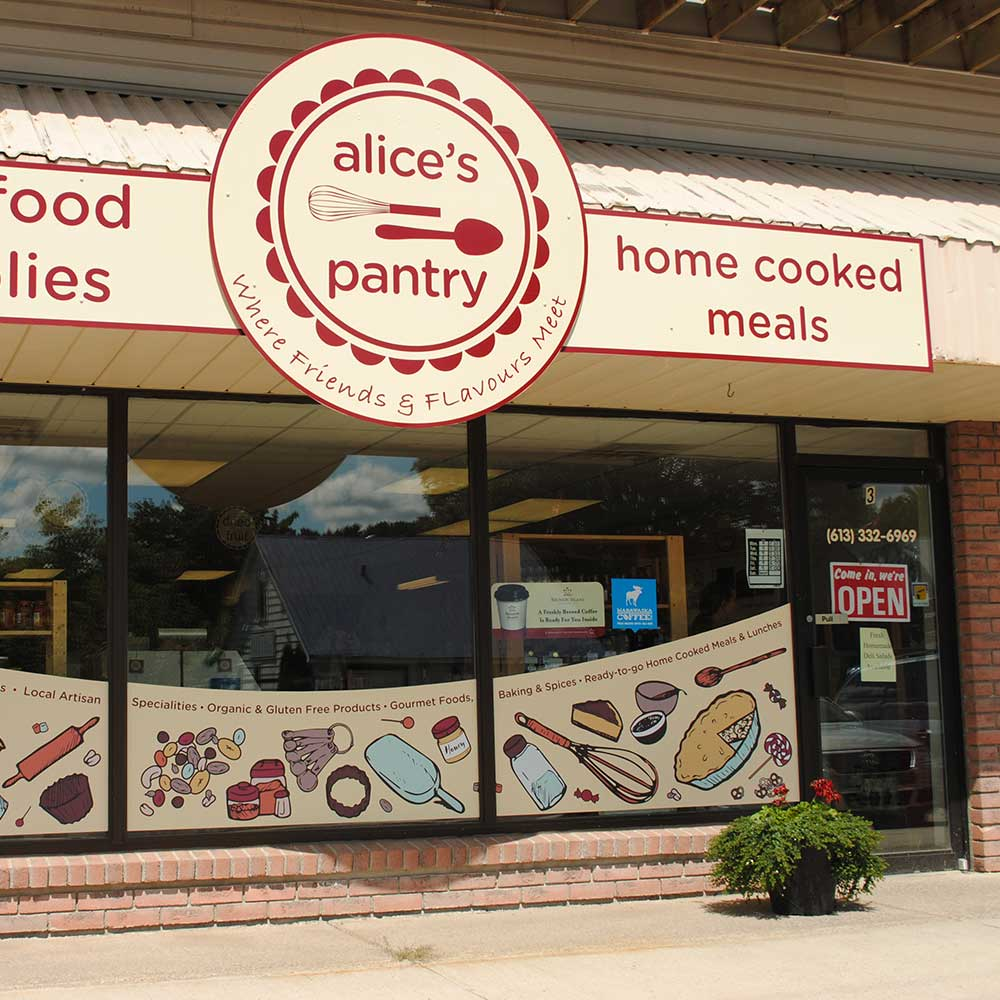
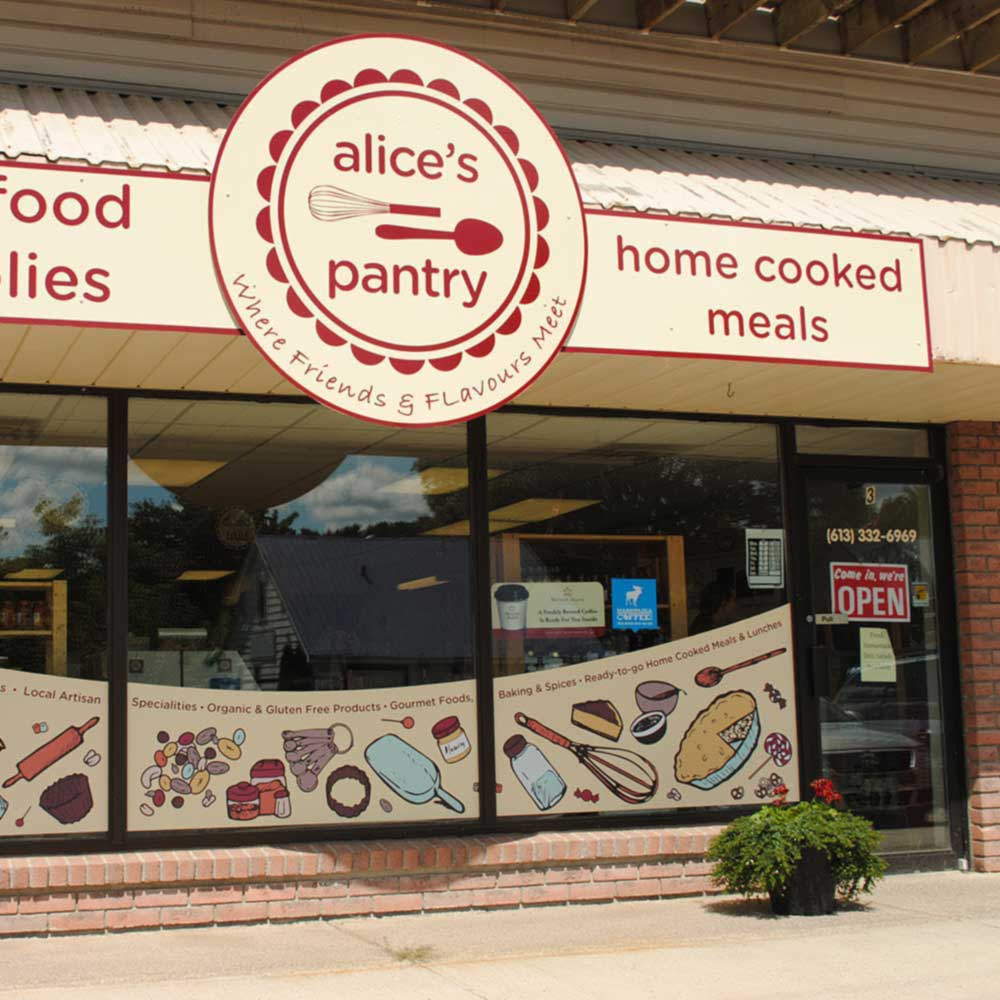
Minimized file size for some images, added alt tags to all images

diff --git a/project-four.html b/project-four.html
@@ -5,8 +5,7 @@ layout: default-two
 <div class="grid">
     <div class="info unit unit-xs-1 unit-s-1 unit-m-1 unit-l-1">
       <h2>utilive postcard design, 2016</h2>
-      <p>Bearability was designed and drawn for the local Timothy’s World Coffee. It stands about 90cm tall by 60cm wide, and was made with pastel and Crayola chalk.
-        For the past few years I have printed holiday cards featuring chalkboards I have made to raise money for the Alzheimer’s Society of Ottawa Renfrew County.</p>
+      <p>This postcard mail out was designed to illustrate some services offered by UtiLive while sticking to their branding.</p>
     </div>
-        <img class="project content-shrink unit unit-xs-1 unit-s-1 unit-m-1 unit-l-1" src="img/utilive.jpg">
+        <img class="project content-shrink unit unit-xs-1 unit-s-1 unit-m-1 unit-l-1" src="img/utilive.jpg" alt="A postcard mail out. There is a photo of a man standing in an office and some icons that illustrate services offered.">
   </div>

diff --git a/project-three.html b/project-three.html
@@ -8,5 +8,5 @@ layout: default-two
       <p>Bearability was designed and drawn for the local Timothy’s World Coffee. It stands about 90cm tall by 60cm wide, and was made with pastel and Crayola chalk.
         For the past few years I have printed holiday cards featuring chalkboards I have made to raise money for the Alzheimer’s Society of Ottawa Renfrew County.</p>
     </div>
-        <img class="project content-shrink unit unit-xs-1 unit-s-1 unit-m-1 unit-l-1" src="img/bear.jpg">
+        <img class="project content-shrink unit unit-xs-1 unit-s-1 unit-m-1 unit-l-1" src="img/bear.jpg alt="A chalkboard illustration of a bear drinking coffee with the words make mornings bearable written underneath.">
   </div>

diff --git a/project-six.html b/project-six.html
@@ -8,5 +8,5 @@ layout: default-two
       <p>This hand lettered, illustrated coffee menu was created for a specialty gelato and coffee shop, Sash Gelato Cafe, located in Ottawa’s historic Byward Market.
         The illustration has been sealed, leaving two spaces open for additional information. This chalkboard stands about 1.5 meters tall and 2.5 meters wide.</p>
     </div>
-        <img class="project content-shrink unit unit-xs-1 unit-s-1 unit-m-1 unit-l-1" src="img/sash.jpg">
+        <img class="project content-shrink unit unit-xs-1 unit-s-1 unit-m-1 unit-l-1" src="img/sash.jpg" alt="An image of a chalk menu with illustrations of each drink.">
   </div>

diff --git a/project-one.html b/project-one.html
@@ -9,5 +9,5 @@ layout: default-two
         The style and colour palette chosen for the illustrations reflect the friendly and upbeat atitude of the store and it’s staff.
         Done as a contractor with TrueCourse Communications.</p>
     </div>
-        <img class="project content-shrink unit unit-xs-1 unit-s-1 unit-m-1 unit-l-1" src="img/alicespantry.jpg">
+        <img class="project content-shrink unit unit-xs-1 unit-s-1 unit-m-1 unit-l-1" src="img/alicespantry.jpg" alt="A picture of the Alice's Pantry store front. The window decal is an assortment of pastried and dried goods done in a colourful, sketched style.">
   </div>

diff --git a/project-five.html b/project-five.html
@@ -9,5 +9,5 @@ layout: default-two
         to the users based on a range of factors. This logo illustrates this concept by showing the overlap and cohesion of technology with the human body.
         Done as a contractor with TrueCourse Communications.</p>
     </div>
-        <img class="project content-shrink unit unit-xs-1 unit-s-1 unit-m-1 unit-l-1" src="img/irystec.jpg">
+        <img class="project content-shrink unit unit-xs-1 unit-s-1 unit-m-1 unit-l-1" src="img/irystec.jpg" alt="A logo for IRYStec, a non-descript screen overlapping a person in profile.">
   </div>

diff --git a/project-two.html b/project-two.html
@@ -9,5 +9,5 @@ layout: default-two
         The logo conveys Renovatek’s modern, cutting edge designs which are also reflected in the angular design of the business cards.
         Done as a contractor with TrueCourse Communications.</p>
     </div>
-        <img class="project content-shrink unit unit-xs-1 unit-s-1 unit-m-1 unit-l-1" src="img/renovatek.jpg">
+        <img class="project content-shrink unit unit-xs-1 unit-s-1 unit-m-1 unit-l-1" src="img/renovatek.jpg" alt="A close up of the business card design for Renovatek. The design is very angular.">
   </div>
